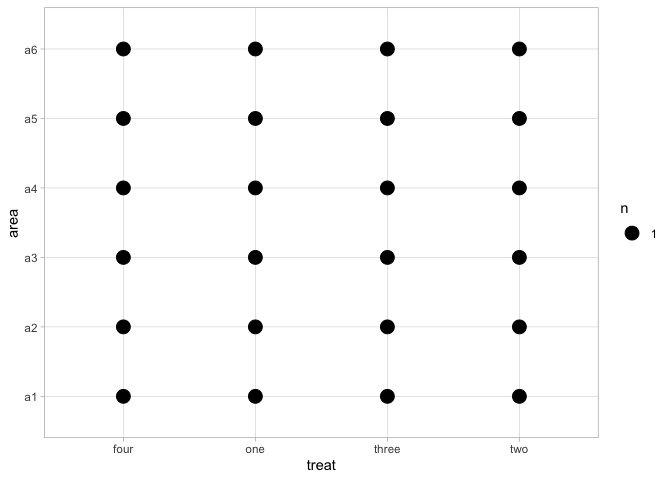
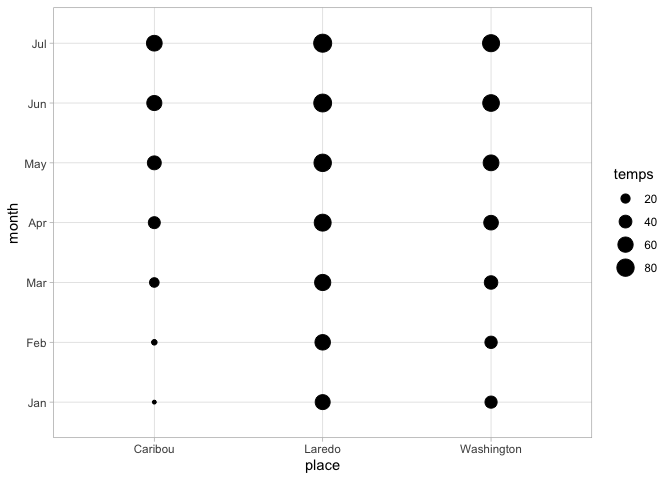
Swap demo dataset

diff --git a/medpolish.md b/medpolish.md
@@ -1,70 +1,91 @@
 ## Libraries
 
-## A classic dataset from Tukey, 1977
+## First steps of a worked example
 
-    leptinotarsa_d <- read.csv(header = TRUE, text = "
-    treat, a1, a2, a3, a4, a5, a6
-    one, 492, 410, 475, 895, 401, 330
-    two, 111, 67, 233, 218, 28, 18
-    three, 58, 267, 283, 279, 392, 141
-    four, 4, 1, 53, 14, 138, 11")
+p 168 from Mosteller and Tukey, *Data Analysis and Regression, A Second
+Course in Statistics*, Reading, MA: Addison-Wesley, 1977.
 
-    long_lept <- pivot_longer(leptinotarsa_d, cols = where(is.numeric), names_to = "area", values_to = "original_count")
+![](mosteller-tukey-1977-p168.jpg)
 
-## Two graphs to demonstrate techniques described by Wickham (in press):
+## Median temperature data
 
-### One
+Set up the data in R
 
-    ggplot(data = long_lept) +
-      geom_count(mapping = aes(x = treat, y = area))
+    med_temp_tibble <- tibble(
+      month = c("Jan", "Feb", "Mar", "Apr", "May", "Jun", "Jul"),
+      Caribou = c(8.7, 9.8, 21.7, 34.7, 48.5, 58.4, 64.0), 
+      Washington = c(36.2, 37.1, 45.3, 54.4, 64.7, 73.4, 77.3), 
+      Laredo = c(57.6, 61.9, 68.4, 75.9, 81.2, 85.8, 87.7)
+    )
+
+    med_temp_array <- t(med_temp_tibble[,2:4])
+    dimnames(med_temp_array)[[2]] <- t(med_temp_tibble[,1])
+
+    med_temp_longer <- med_temp_tibble %>% 
+      pivot_longer(cols = c("Caribou", "Washington", "Laredo"), 
+                   values_to = "temps" , names_to = "place") %>% 
+      mutate(month = factor(month, levels = c("Jan", "Feb", "Mar", "Apr", "May", "Jun", "Jul"), ordered = TRUE))
+
+    array_row_names <- med_temp_array[,1]
+
+## Techniques described by Hadley Wickham
+
+Hadley Wickham, R for Data Science chapter on Exploratory Data Analysis:
+<https://r4ds.had.co.nz/exploratory-data-analysis.html> 
+
+### Variant number one
+
+    med_temp_longer %>% ggplot(aes(month, y = place)) +
+      geom_point(aes(size = temps)) +
+      coord_flip()
 
 ![](medpolish_files/figure-markdown_strict/unnamed-chunk-2-1.png)
 
-### Variant of number one
+### Variant number two
 
-    long_lept %>% ggplot(aes(treat, y = area)) +
-      geom_point(aes(size = (original_count))) +
+    med_temp_longer %>% ggplot(aes(month, y = place)) +
+      geom_tile(mapping = aes(fill = temps)) +
       coord_flip()
 
 ![](medpolish_files/figure-markdown_strict/unnamed-chunk-3-1.png)
 
-### Two
-
-    long_lept %>% 
-      ggplot(mapping = aes(x = treat, y = area)) +
-        geom_tile(mapping = aes(fill = original_count))
-
-![](medpolish_files/figure-markdown_strict/unnamed-chunk-4-1.png)
-
-## Format the data so that medpolish function can process
-
-    lp_row_names <- leptinotarsa_d[,1]
-
-    .rowNamesDF(leptinotarsa_d, make.names = FALSE) <- lp_row_names
-
-    has_rownames(leptinotarsa_d)
-
-    ## [1] TRUE
-
-    leptinotarsa_d <- leptinotarsa_d %>%
-      select(-1)
-
 ## Save medpolish output in a list and demonstrate basic additivity plot
 
-    lp <- medpolish(leptinotarsa_d)
+    lp <- medpolish(med_temp_array)
 
-    ## 1: 1567
-    ## 2: 1450.25
-    ## 3: 1433.125
-    ## Final: 1429
+    ## 1: 64
+    ## Final: 64
 
-    plot(lp)
+### Standard output
 
-![](medpolish_files/figure-markdown_strict/unnamed-chunk-6-1.png)
+    lp
+
+    ## 
+    ## Median Polish Results (Dataset: "med_temp_array")
+    ## 
+    ## Overall: 54.4
+    ## 
+    ## Row Effects:
+    ##    Caribou Washington     Laredo 
+    ##      -19.7        0.0       21.5 
+    ## 
+    ## Column Effects:
+    ##   Jan   Feb   Mar   Apr   May   Jun   Jul 
+    ## -18.3 -17.3  -9.1   0.0  10.3  19.0  22.9 
+    ## 
+    ## Residuals:
+    ##             Jan  Feb  Mar Apr  May  Jun   Jul
+    ## Caribou    -7.7 -7.6 -3.9   0  3.5  4.7   6.4
+    ## Washington  0.1  0.0  0.0   0  0.0  0.0   0.0
+    ## Laredo      0.0  3.3  1.6   0 -5.0 -9.1 -11.1
+
+### Additivity plot
 
 ## Augment *medpolish* output to produce an augmented plot
 
-    lp_row_tibble <- tibble(area = lp_row_names)
+Aiming to reproduce the plot on p 176
+
+    lp_row_tibble <- tibble(area = array_row_names)
     fit <- as_tibble(lp$overall + outer(lp$row, lp$col, "+"))
     fit <- bind_cols(lp_row_tibble, fit) # add row-names back to the fit df
 
@@ -143,6 +164,10 @@
 ## Graph the median polish fit
 
     p <- lp$long_fit_resids %>%
+      mutate(resid_color = case_when(
+        resids < 0 ~ "red",
+        TRUE ~ "blue"
+      )) %>% 
       ggplot(aes(x = col_fit, y = row_fit)) +
       # geom_point() +
       geom_segment(aes(y = row_grid_start, x = col_fit, yend = row_grid_end, xend = col_fit)) +
@@ -151,7 +176,7 @@
       geom_segment(aes(
         x = col_fit, y = row_fit,
         xend = col_fit_end, yend = row_fit_end,
-        color = resids
+        color = resid_color
       ),
       arrow = arrow(type = "closed", length = unit(.1, "cm"))
       ) +
@@ -170,16 +195,16 @@
         ),
         angle = -45,
         nudge_x = 20
-      )
+      ) +
+      labs(fill = NULL)
 
     p
 
-![](medpolish_files/figure-markdown_strict/unnamed-chunk-8-1.png)
+![](medpolish_files/figure-markdown_strict/unnamed-chunk-7-1.png)
 
-## Rotate the fit plot for easier viewing
+## Rotate the fit plot
 
     rotation <- 45
-    leg <- as.grob(~ plot(get_legend(p + theme_void())))
     p_rot <- p +
       theme(
         legend.position = "none",
@@ -202,6 +227,5 @@
       height = 0
     )
     pushViewport(vp)
-    grid.draw(leg)
 
-![](medpolish_files/figure-markdown_strict/unnamed-chunk-9-1.png)
+![](medpolish_files/figure-markdown_strict/unnamed-chunk-8-1.png)
